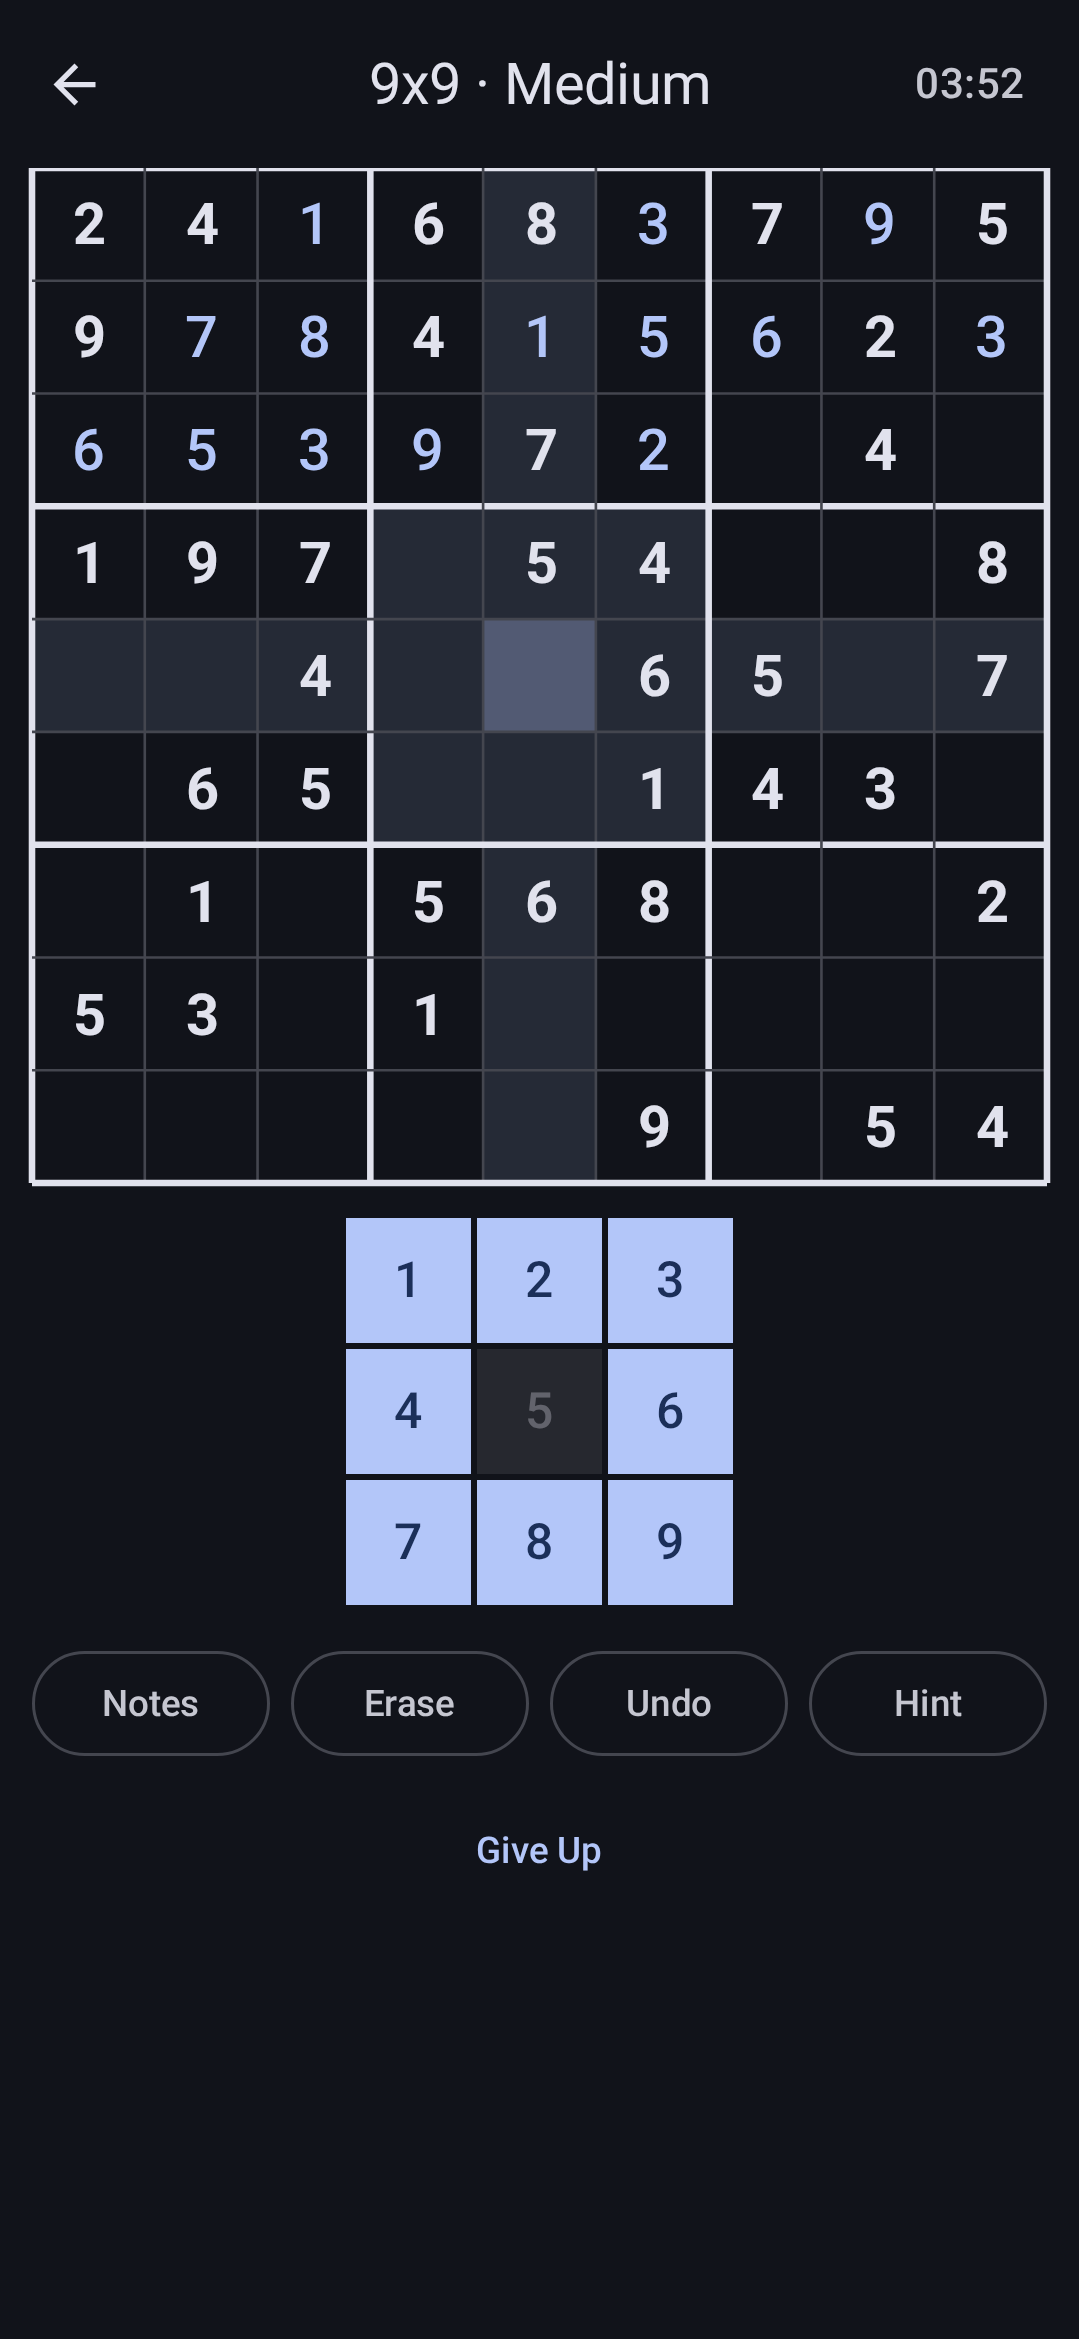
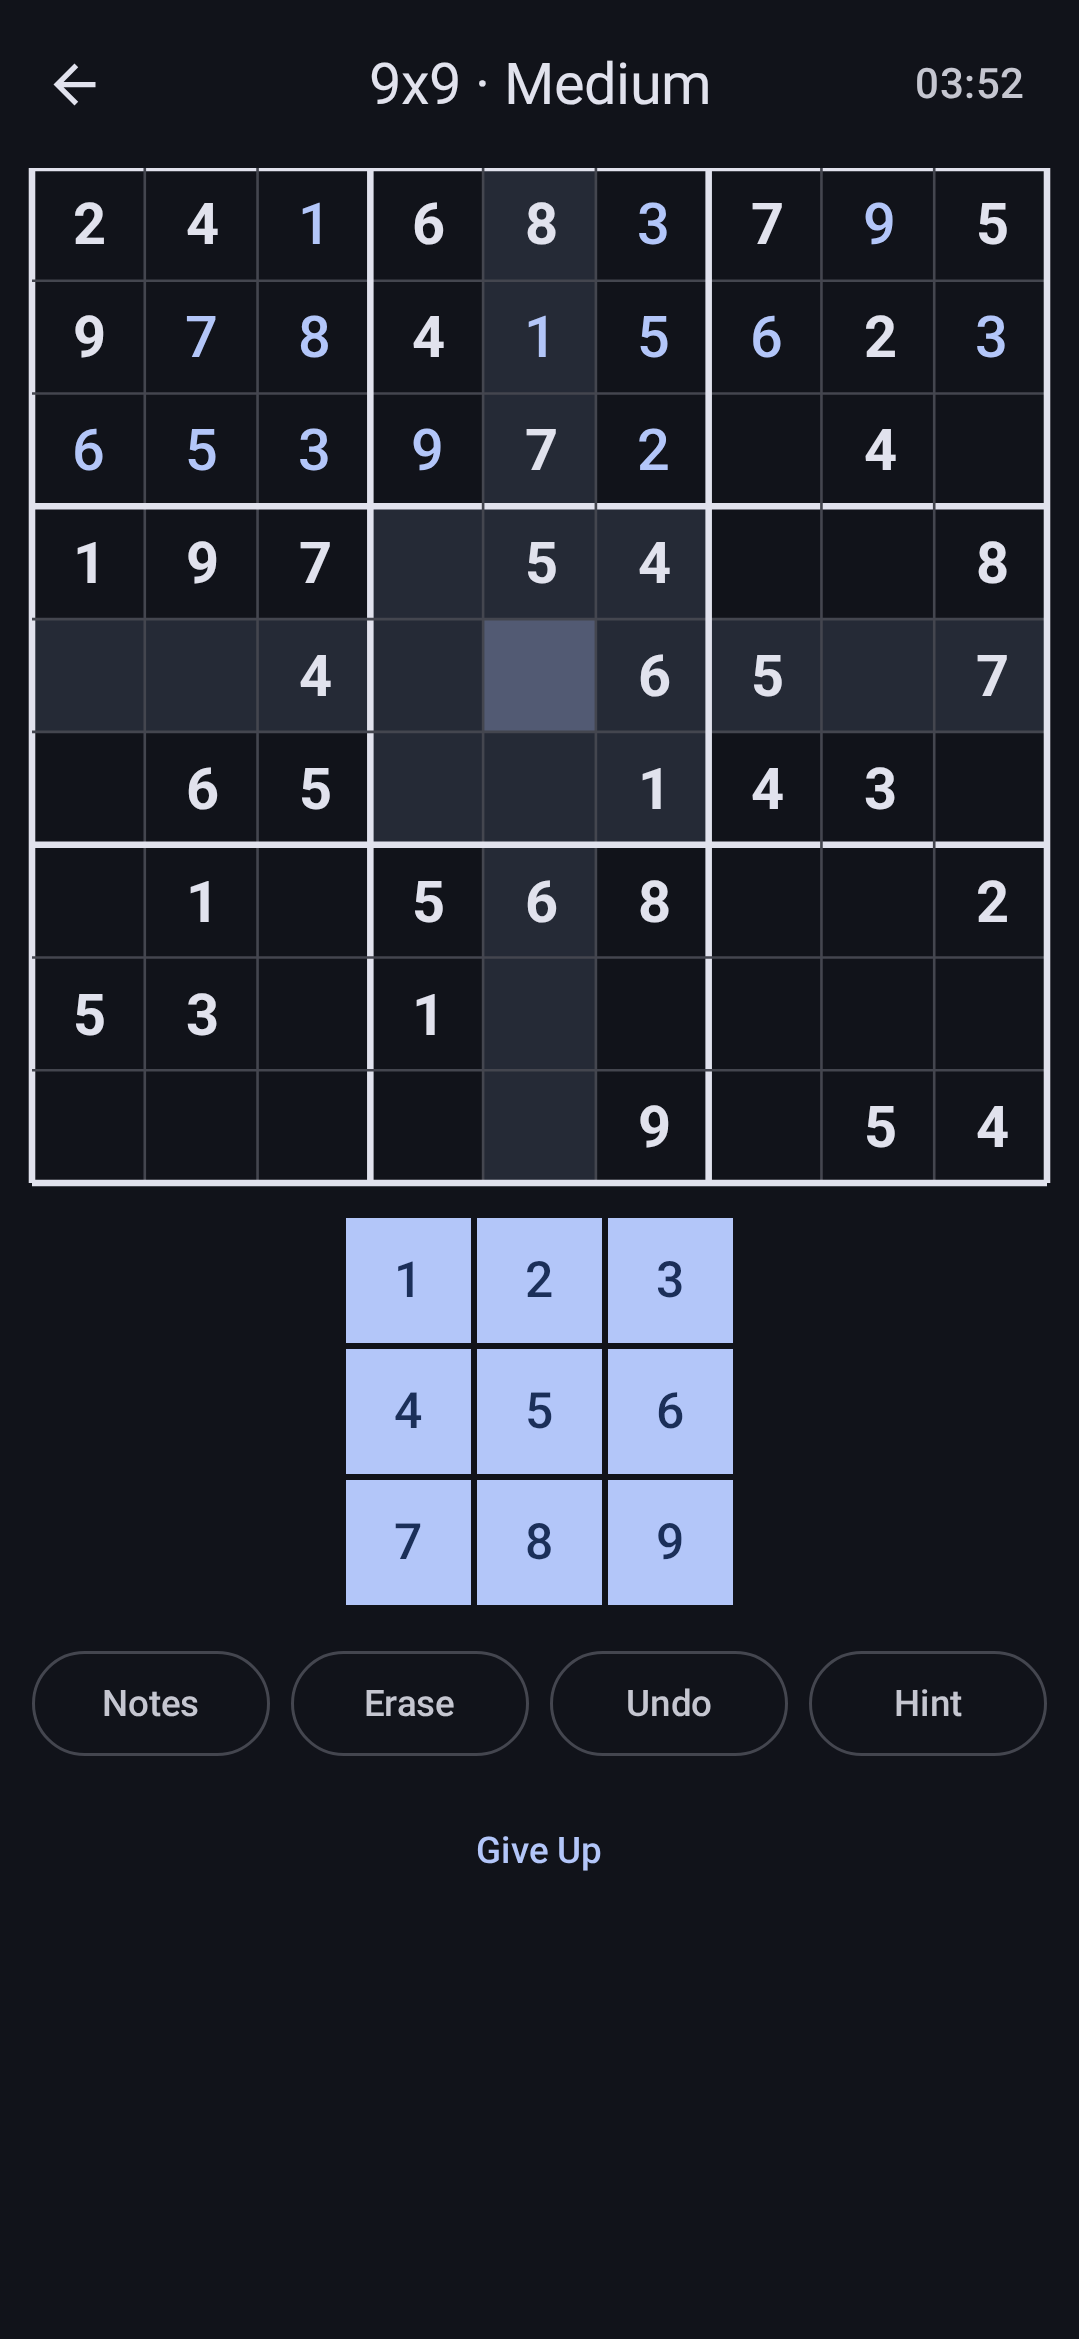
sudoku: accept wrong digits silently and never disable keys

Changed region(s): [[0.4282, 0.5618, 0.5811, 0.6554]]

diff --git a/games/sudoku/src/test/java/com/vayunmathur/games/sudoku/data/SudokuGameStateTest.kt b/games/sudoku/src/test/java/com/vayunmathur/games/sudoku/data/SudokuGameStateTest.kt
@@ -16,42 +16,60 @@ class SudokuGameStateTest {
     private val blank = puzzle.givens.indices.first { puzzle.givens[it] == 0 }
 
     /** A digit that does not belong in [blank]. */
-    private val wrongDigit =
-        (1..puzzle.size.side).first { it != puzzle.solution[blank] }
+    private val wrongDigit = (1..puzzle.size.side).first { it != puzzle.solution[blank] }
+
+    private fun SudokuGameState.withEntry(index: Int, digit: Int) =
+        copy(entries = entries.toMutableList().also { it[index] = digit })
 
     @Test
-    fun theCorrectDigitIsAccepted() {
-        assertTrue(fresh.accepts(blank, puzzle.solution[blank]))
+    fun aWrongDigitIsRecognisedButNotBlocked() {
+        // Wrong digits go in silently; nothing stops them, and nothing draws attention to them.
+        val s = fresh.withEntry(blank, wrongDigit)
+        assertTrue(s.isWrong(blank))
+        assertEquals(wrongDigit, s.valueAt(blank), "the wrong digit should still be on the board")
     }
 
     @Test
-    fun aWrongDigitIsRefused() {
-        // The whole point: the grid never holds a digit that disagrees with the solution.
-        assertFalse(fresh.accepts(blank, wrongDigit))
+    fun aCorrectDigitIsNotWrong() {
+        assertFalse(fresh.withEntry(blank, puzzle.solution[blank]).isWrong(blank))
     }
 
     @Test
-    fun givenCellsRefuseEverything() {
+    fun anEmptyCellIsNotWrong() {
+        assertFalse(fresh.isWrong(blank))
+    }
+
+    @Test
+    fun givensAreNeverWrong() {
         val given = puzzle.givens.indices.first { puzzle.givens[it] != 0 }
-        for (digit in 1..puzzle.size.side) {
-            assertFalse(fresh.accepts(given, digit), "digit $digit into a given")
+        assertFalse(fresh.isWrong(given))
+    }
+
+    @Test
+    fun aFullBoardWithAMistakeDoesNotComplete() {
+        // This is the only signal the player gets that something is off.
+        val entries = List(puzzle.size.cellCount) {
+            if (fresh.isGiven(it)) 0 else puzzle.solution[it]
         }
-    }
-
-    @Test
-    fun outOfRangeCellsAreRefused() {
-        assertFalse(fresh.accepts(-1, 1))
-        assertFalse(fresh.accepts(puzzle.size.cellCount, 1))
-    }
-
-    @Test
-    fun aFinishedGridRefusesFurtherWrites() {
-        val solved = fresh.copy(
-            entries = List(puzzle.size.cellCount) { if (fresh.isGiven(it)) 0 else puzzle.solution[it] },
-            isWon = true,
-        )
+        val solved = fresh.copy(entries = entries)
         assertTrue(solved.isComplete)
-        assertFalse(solved.accepts(blank, puzzle.solution[blank]))
+
+        val spoiled = solved.withEntry(blank, wrongDigit)
+        assertFalse(spoiled.isComplete, "a full grid with a wrong digit must not count as complete")
+        assertTrue(spoiled.blankIndices().isEmpty(), "and it really is full")
+    }
+
+    @Test
+    fun wrongIndicesFindEveryMistake() {
+        val second = puzzle.givens.indices.last { puzzle.givens[it] == 0 }
+        val s = fresh.withEntry(blank, wrongDigit).withEntry(second, wrongDigitFor(second))
+        assertEquals(listOf(blank, second).sorted(), s.wrongIndices())
+    }
+
+    @Test
+    fun wrongIndicesIsEmptyOnACleanBoard() {
+        assertTrue(fresh.wrongIndices().isEmpty())
+        assertTrue(fresh.withEntry(blank, puzzle.solution[blank]).wrongIndices().isEmpty())
     }
 
     @Test
@@ -60,30 +78,15 @@ class SudokuGameStateTest {
             puzzle.givens.indices.filter { puzzle.givens[it] == 0 },
             fresh.blankIndices(),
         )
-        // Filling one removes it from the list, which is what stops a hint reusing that cell.
-        val filled = fresh.copy(entries = fresh.entries.toMutableList().also {
-            it[blank] = puzzle.solution[blank]
-        })
-        assertFalse(blank in filled.blankIndices())
+        assertFalse(blank in fresh.withEntry(blank, puzzle.solution[blank]).blankIndices())
     }
 
     @Test
-    fun placedCountOnlyCountsWhatIsOnTheBoard() {
-        val digit = puzzle.solution[blank]
-        val before = fresh.placedCount(digit)
-        val after = fresh.copy(entries = fresh.entries.toMutableList().also {
-            it[blank] = digit
-        }).placedCount(digit)
-        assertEquals(before + 1, after)
-    }
-
-    @Test
-    fun aGridIsCompleteOnlyWhenEveryCellMatchesTheSolution() {
-        assertFalse(fresh.isComplete)
-        val solved = fresh.copy(
-            entries = List(puzzle.size.cellCount) { if (fresh.isGiven(it)) 0 else puzzle.solution[it] }
-        )
-        assertTrue(solved.isComplete)
+    fun aWrongEntryCountsAsFilledNotBlank() {
+        // A hint has to treat it as an error to fix, not as an empty cell to fill.
+        val s = fresh.withEntry(blank, wrongDigit)
+        assertFalse(blank in s.blankIndices())
+        assertTrue(blank in s.wrongIndices())
     }
 
     @Test
@@ -97,12 +100,28 @@ class SudokuGameStateTest {
         for (size in BoardSize.entries) {
             val counts = IntArray(size.side)
             for (index in 0 until size.cellCount) counts[size.boxOf(index)]++
-            // Every box must hold exactly as many cells as a row does, or the box constraint would
-            // be weaker or stronger than the row constraint.
+            // Every box must hold exactly as many cells as a row does, or the box constraint would be
+            // weaker or stronger than the row constraint.
             assertTrue(
                 counts.all { it == size.side },
                 "${size.name} box sizes were ${counts.toList()}",
             )
         }
     }
+
+    @Test
+    fun symbolsAreOneCharacterOnEveryBoard() {
+        // A 12x12 pencil-mark grid has twelve candidates in one cell; two-character labels are unusable.
+        for (size in BoardSize.entries) {
+            for (digit in 1..size.side) {
+                assertEquals(1, sudokuSymbol(digit).length, "${size.name} digit $digit")
+            }
+        }
+        assertEquals("9", sudokuSymbol(9))
+        assertEquals("A", sudokuSymbol(10))
+        assertEquals("C", sudokuSymbol(12))
+    }
+
+    private fun wrongDigitFor(index: Int) =
+        (1..puzzle.size.side).first { it != puzzle.solution[index] }
 }

diff --git a/games/sudoku/src/main/java/com/vayunmathur/games/sudoku/platform/SudokuViewModel.kt b/games/sudoku/src/main/java/com/vayunmathur/games/sudoku/platform/SudokuViewModel.kt
@@ -89,17 +89,17 @@ class SudokuViewModel(application: Application) : AndroidViewModel(application),
      * Re-entering the digit already showing clears the cell instead, so the number pad doubles as a
      * toggle and the player rarely needs the separate erase button.
      *
-     * A confirmed digit that disagrees with the solution is refused: nothing is written, no move is
-     * counted, and the board does not change. The attempt is still remembered for the `no_mistakes`
-     * achievement, which is the only trace a wrong guess leaves.
+     * A digit that disagrees with the solution goes in exactly like any other, with no highlight and no
+     * complaint. The player finds out only because [checkWin] never fires, which keeps the deduction
+     * theirs to do; the attempt is remembered for the `no_mistakes` achievement.
      */
     override fun enterDigit(digit: Int) {
         val game = _uiState.value.game ?: return
         val index = game.selected
         if (index !in 0 until game.size.cellCount || game.isGiven(index) || game.isWon) return
 
+        pushHistory(game)
         if (game.notesMode) {
-            pushHistory(game)
             val bit = 1 shl (digit - 1)
             mutate { state ->
                 state.copy(
@@ -111,21 +111,13 @@ class SudokuViewModel(application: Application) : AndroidViewModel(application),
             return
         }
 
-        // Tapping the digit already there means "take it back", which is always allowed.
-        if (game.entries[index] == digit) {
-            clearCell()
-            return
-        }
-        if (!game.accepts(index, digit)) {
-            madeMistake = true
-            return
-        }
-
-        pushHistory(game)
+        // Tapping the digit already there means "take it back".
+        val next = if (game.entries[index] == digit) 0 else digit
+        if (next != 0 && next != game.solution[index]) madeMistake = true
         mutate { state ->
             state.copy(
-                entries = state.entries.replacing(index, digit),
-                // A confirmed digit makes its own pencil marks meaningless.
+                entries = state.entries.replacing(index, next),
+                // A written digit makes its own pencil marks meaningless.
                 notes = state.notes.replacing(index, 0),
                 moveCount = state.moveCount + 1,
             )
@@ -148,16 +140,18 @@ class SudokuViewModel(application: Application) : AndroidViewModel(application),
     }
 
     /**
-     * Fills one cell with its correct digit.
+     * Fixes one cell, correcting a mistake before filling anything new.
      *
-     * Prefers the selected cell so a stuck player gets help where they are looking; otherwise it takes
-     * the first blank. Entries are always correct, so a blank cell is the only thing a hint can help
-     * with.
+     * Errors come first wherever they are on the board: a hint spent on a fresh cell while a wrong
+     * digit sits elsewhere would leave the player deducing from something false. Only once the grid is
+     * consistent does it fill a blank, preferring the selected one so help lands where they are
+     * looking.
      */
     override fun hint() {
         val game = _uiState.value.game ?: return
         if (game.isWon) return
-        val index = game.selected.takeIf { it >= 0 && !game.isGiven(it) && game.valueAt(it) == 0 }
+        val index = game.wrongIndices().firstOrNull()
+            ?: game.selected.takeIf { it >= 0 && !game.isGiven(it) && game.valueAt(it) == 0 }
             ?: game.blankIndices().firstOrNull()
             ?: return
 

diff --git a/games/sudoku/src/main/java/com/vayunmathur/games/sudoku/data/SudokuModels.kt b/games/sudoku/src/main/java/com/vayunmathur/games/sudoku/data/SudokuModels.kt
@@ -71,8 +71,8 @@ data class GameConfig(
  * A generated puzzle: the clues the player starts with and the unique grid they lead to.
  *
  * Both lists are [BoardSize.cellCount] long and use 0 for "blank"; digits are 1-based. Keeping the
- * solution alongside the clues is what lets a hint fill one correct cell without re-running the
- * solver, and lets a digit that does not belong be refused as it is entered.
+ * solution alongside the clues is what lets a hint fill or correct one cell without re-running the
+ * solver, and what the completion check compares against.
  */
 data class Puzzle(
     val size: BoardSize,
@@ -112,26 +112,29 @@ data class SudokuGameState(
     fun isGiven(index: Int): Boolean = givens[index] != 0
 
     /**
-     * Whether [digit] may be written into [index].
+     * True when [index] holds a digit that disagrees with the solution.
      *
-     * A digit that disagrees with the solution is refused outright rather than written and flagged, so
-     * the grid only ever holds correct entries. That is why there is no "wrong cell" state to render:
-     * it cannot occur.
-     *
-     * Clearing a cell is not a write and does not go through here.
+     * Nothing in the UI draws this. A wrong digit goes in silently and stays there; the player finds
+     * out because the puzzle refuses to complete, and a hint will fix it. It exists so [wrongIndices]
+     * can find those cells.
      */
-    fun accepts(index: Int, digit: Int): Boolean =
-        !isWon &&
-            index in 0 until size.cellCount &&
-            !isGiven(index) &&
-            digit == solution[index]
+    fun isWrong(index: Int): Boolean {
+        val value = valueAt(index)
+        return value != 0 && value != solution[index]
+    }
 
-    /** How many of [digit] are already placed, so the number pad can retire finished digits. */
-    fun placedCount(digit: Int): Int = (0 until size.cellCount).count { valueAt(it) == digit }
+    /** Filled cells that disagree with the solution, which a hint fixes before filling anything new. */
+    fun wrongIndices(): List<Int> = (0 until size.cellCount).filter { isWrong(it) }
 
-    /** Cells with nothing in them yet, which is what a hint picks from. */
+    /** Cells with nothing in them yet. */
     fun blankIndices(): List<Int> = (0 until size.cellCount).filter { valueAt(it) == 0 }
 
+    /**
+     * Complete only when every cell matches the solution.
+     *
+     * A full grid is not enough: since wrong digits are accepted without comment, this is the only
+     * thing that tells the player they have something wrong somewhere.
+     */
     val isComplete: Boolean get() = (0 until size.cellCount).all { valueAt(it) == solution[it] }
 
     companion object {

diff --git a/games/sudoku/src/main/java/com/vayunmathur/games/sudoku/ui/components/NumberPad.kt b/games/sudoku/src/main/java/com/vayunmathur/games/sudoku/ui/components/NumberPad.kt
@@ -30,10 +30,8 @@ import com.vayunmathur.library.ui.Text
  * hairline in the background colour separates them, so the block reads as distinct keys without
  * needing gaps.
  *
- * A digit that has been placed as many times as the board is wide is disabled rather than hidden, so
- * the keys never reflow under the player's thumb mid-game. Notes mode keeps every digit enabled,
- * because a pencil mark for a finished digit is still a legitimate thing to jot down while ruling it
- * out.
+ * No key is ever disabled. A wrong digit is accepted silently, so there is nothing to gate on, and a
+ * digit that already appears the maximum number of times may still be one the player wants to move.
  */
 @Composable
 fun NumberPad(
@@ -49,8 +47,6 @@ fun NumberPad(
                     val digit = row * size.boxCols + col + 1
                     DigitKey(
                         digit = digit,
-                        enabled = !game.isWon &&
-                            (game.notesMode || game.placedCount(digit) < size.side),
                         highlighted = game.notesMode,
                         onClick = { onDigit(digit) },
                     )
@@ -63,7 +59,6 @@ fun NumberPad(
 @Composable
 private fun DigitKey(
     digit: Int,
-    enabled: Boolean,
     highlighted: Boolean,
     onClick: () -> Unit,
 ) {
@@ -78,7 +73,6 @@ private fun DigitKey(
         FilledTonalButton(
             onClick = onClick,
             modifier = shared,
-            enabled = enabled,
             shape = RectangleShape,
             contentPadding = PaddingValues(0.dp),
         ) { label() }
@@ -86,7 +80,6 @@ private fun DigitKey(
         Button(
             onClick = onClick,
             modifier = shared,
-            enabled = enabled,
             shape = RectangleShape,
             contentPadding = PaddingValues(0.dp),
         ) { label() }
